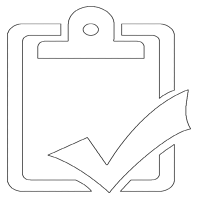
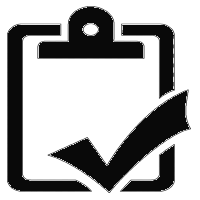
added helpful titles and updated some image outlines

diff --git a/packages/renderer/src/App.vue b/packages/renderer/src/App.vue
@@ -69,22 +69,34 @@ const DrawTool = defineAsyncComponent(() =>
 
 <template>
   <div class="globalTools">
-    <button class="navItem" @click="showNavMenu = !showNavMenu">
+    <button
+      class="navItem"
+      @click="showNavMenu = !showNavMenu"
+      title="toggle navigation"
+    >
       <img src="./assets/nav_hamburger.png" alt="toggle navigation menu" />
     </button>
-    <button class="navItem" @click="showDraw = !showDraw">
+    <button class="navItem" @click="showDraw = !showDraw" title="draw tool">
       <img src="./assets/pencilIcon.png" alt="draw tool" />
     </button>
-    <button class="navItem" @click="toggleFullScreen">
+    <button class="navItem" @click="toggleFullScreen" title="toggle fullscreen">
       <img src="./assets/expandIcon.png" alt="toggle full screen" />
     </button>
   </div>
   <div v-if="showNavMenu" class="navMenu">
-    <button @click="router.push({ name: 'main-page' })" class="navItem">
+    <button
+      @click="router.push({ name: 'main-page' })"
+      class="navItem"
+      title="home screen"
+    >
       <img src="./assets/homeIcon.png" alt="home icon" />
     </button>
 
-    <button @click="router.push({ name: 'fact-finder' })" class="navItem">
+    <button
+      @click="router.push({ name: 'fact-finder' })"
+      class="navItem"
+      title="fact finder"
+    >
       <img src="./assets/factFinderIcon.png" alt="fact finder icon" />
     </button>
   </div>
